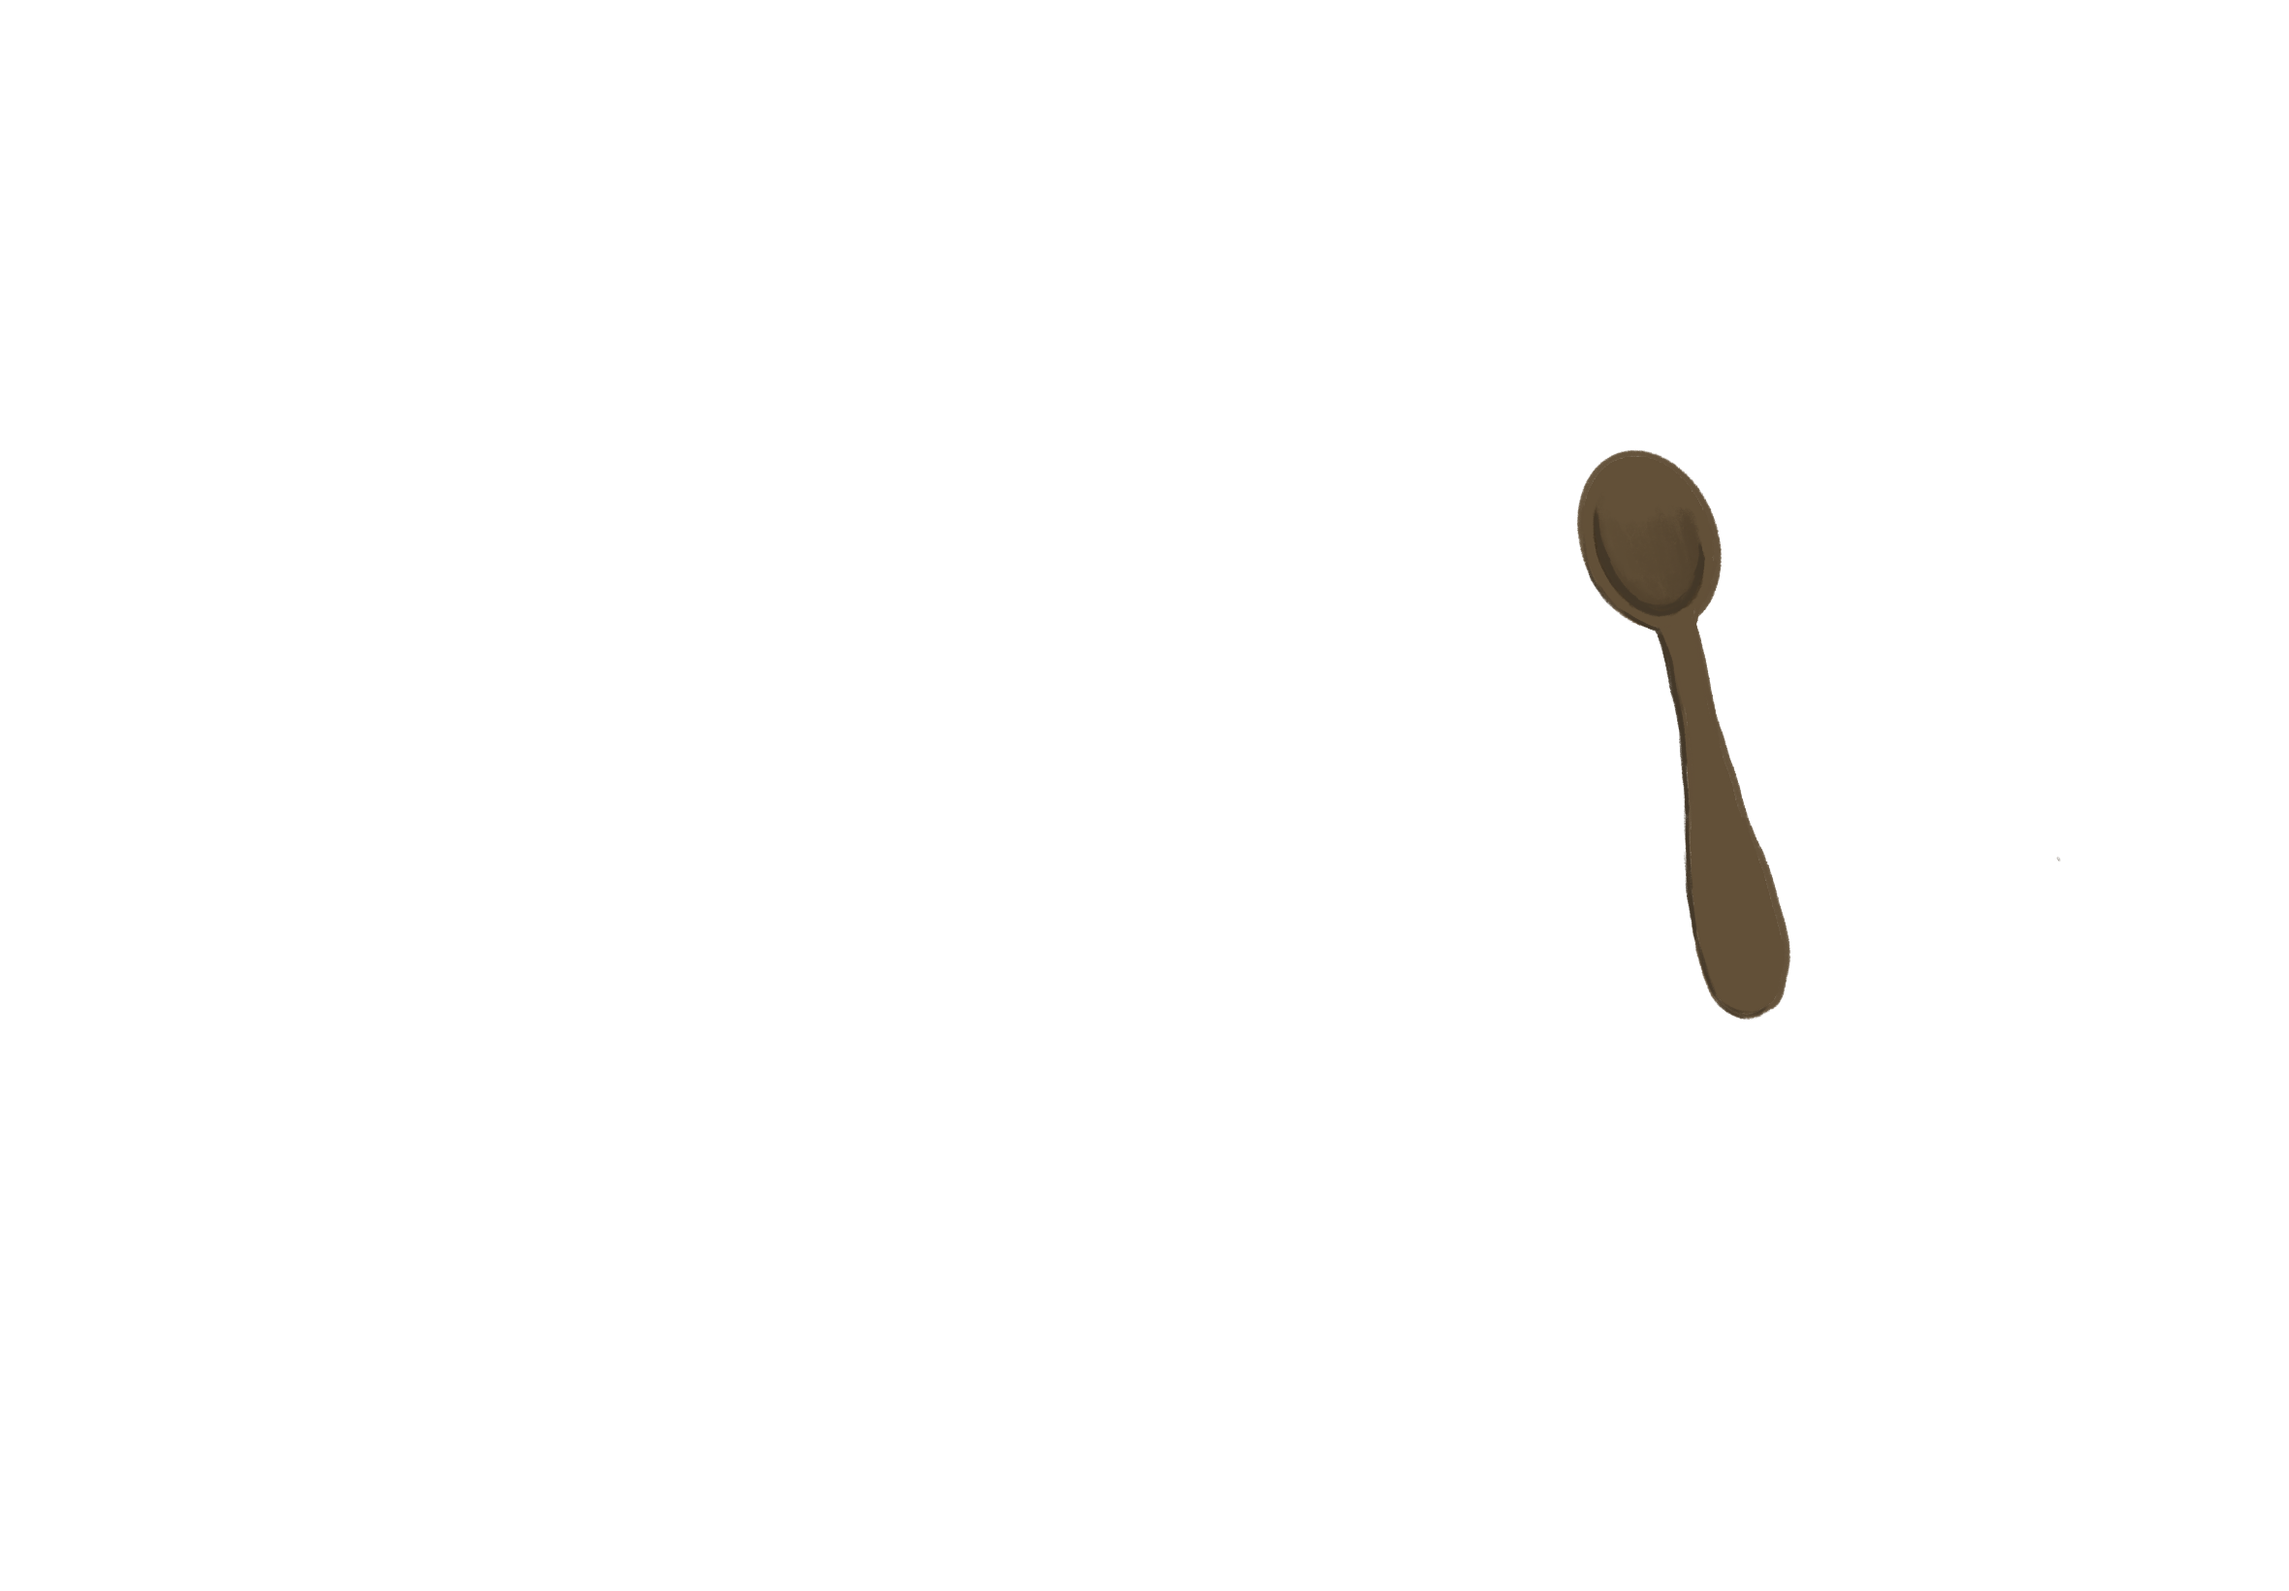
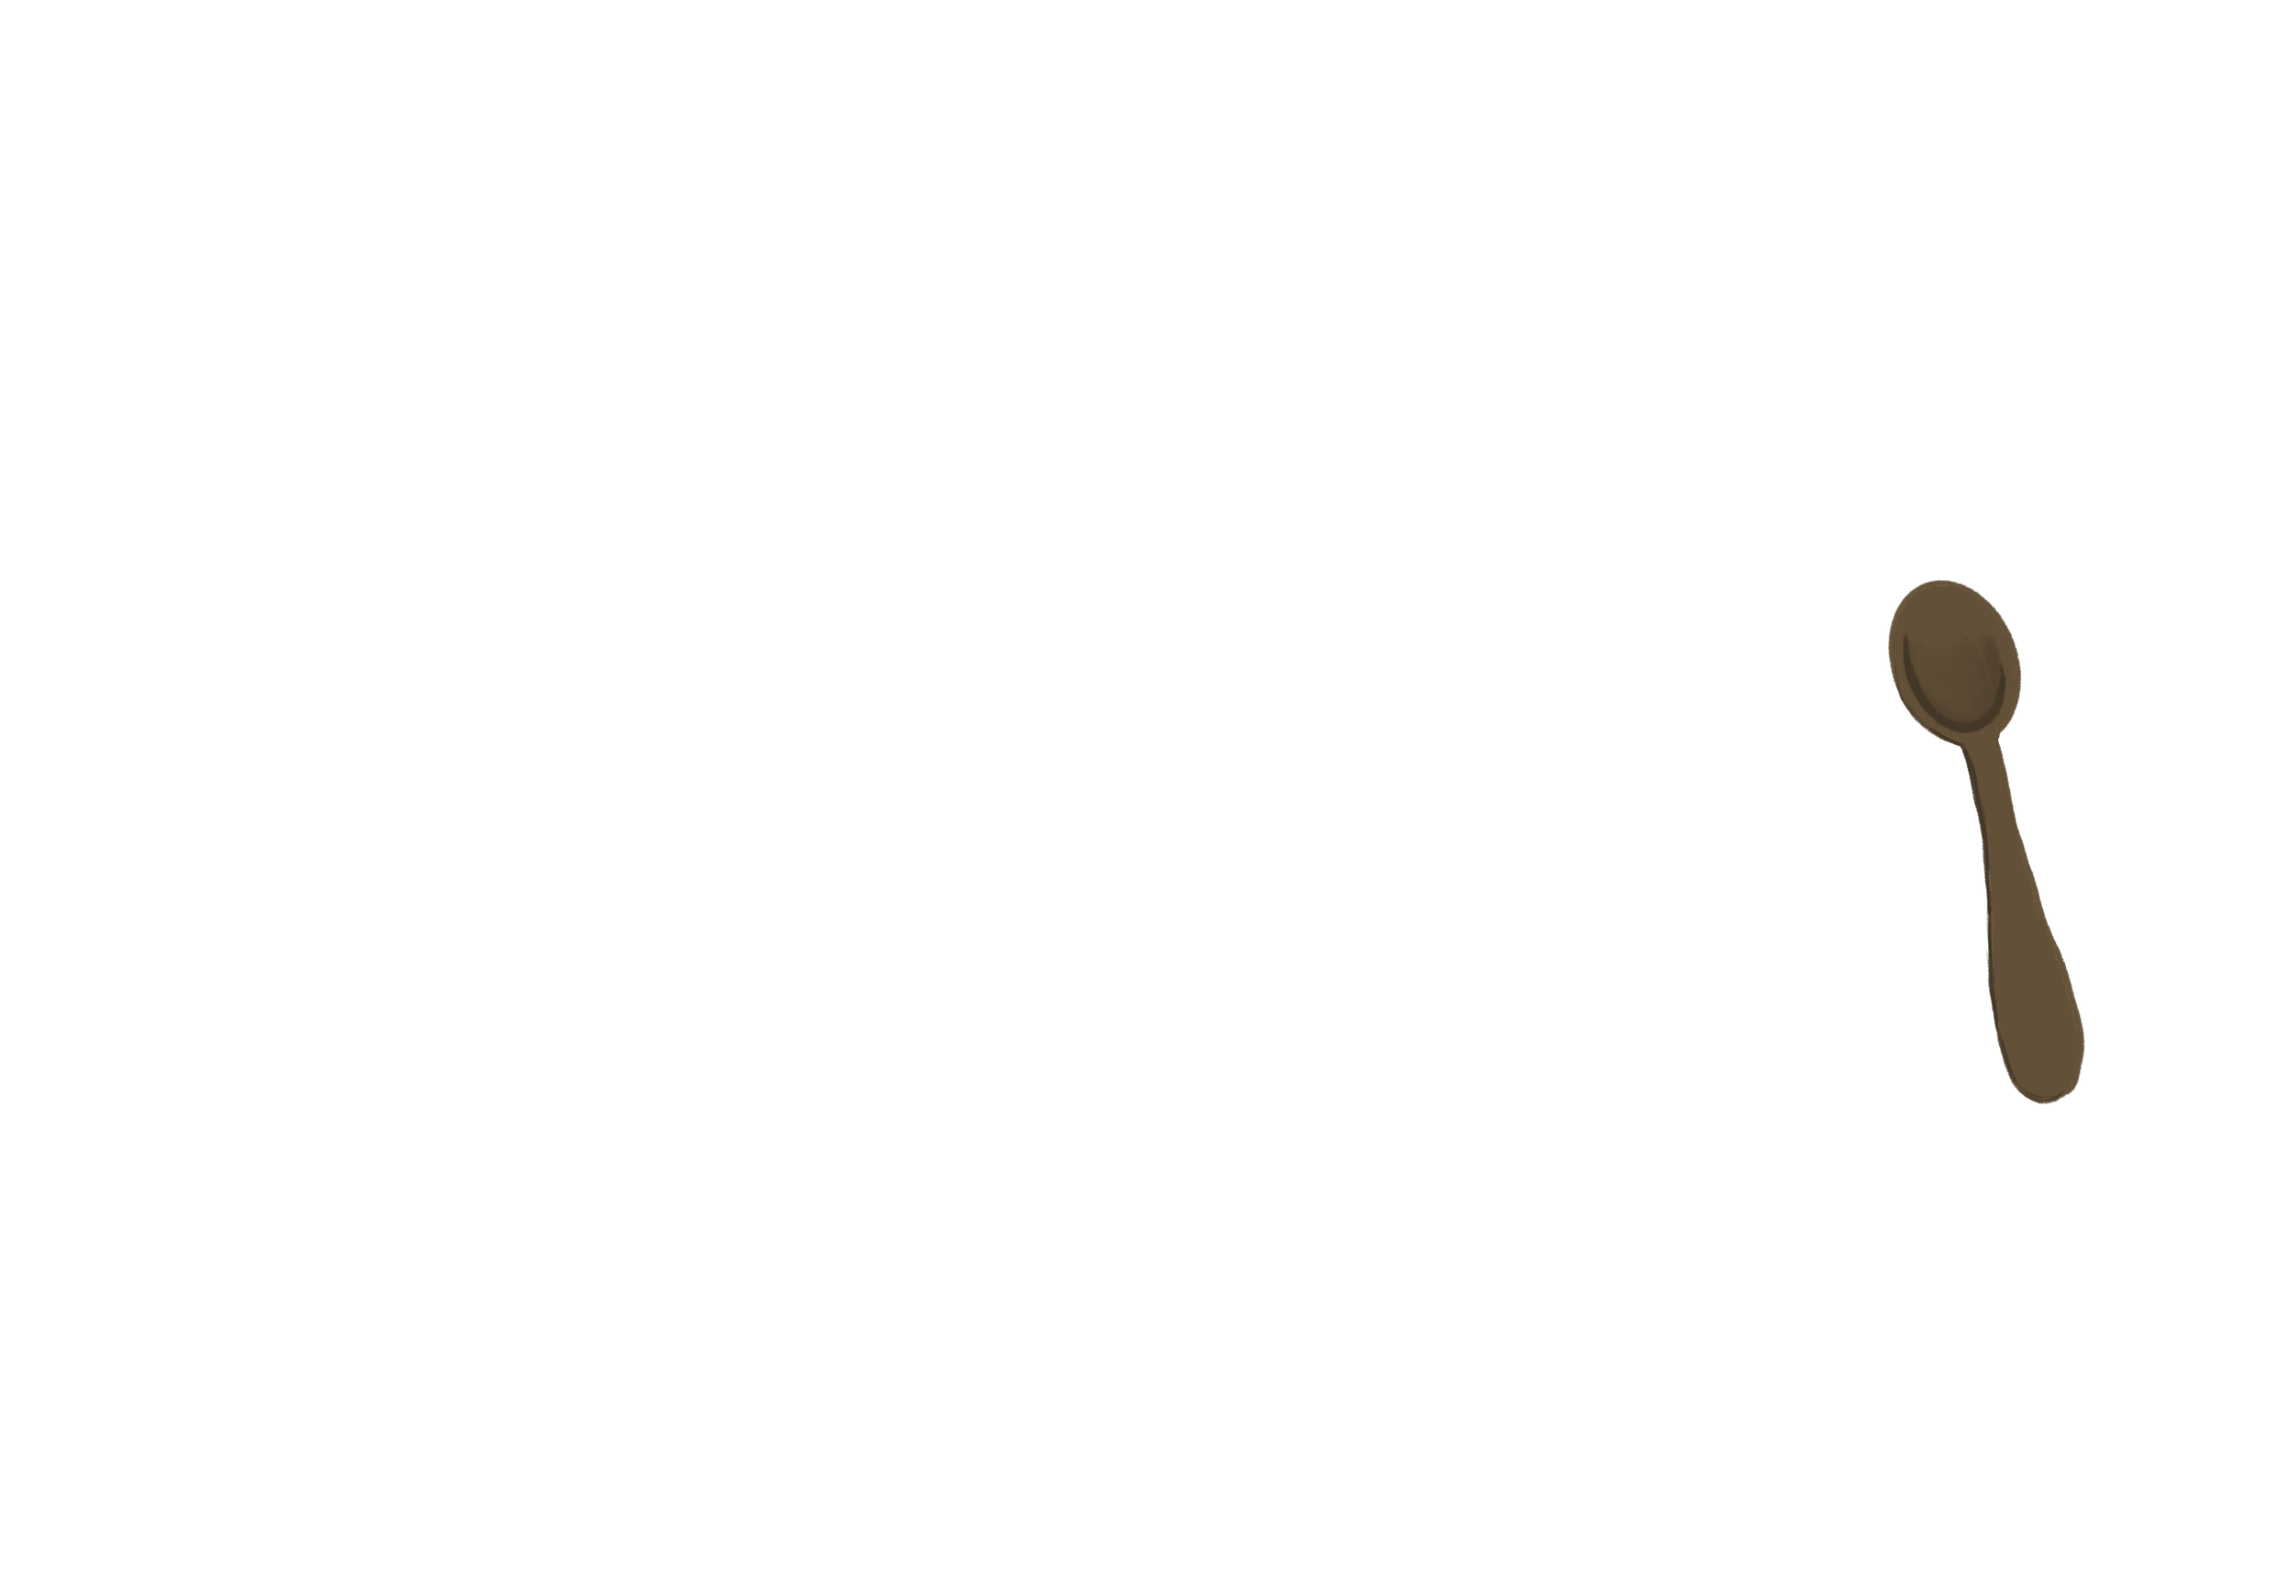
utensils location

Changed region(s): [[0.6805, 0.2799, 0.8042, 0.653], [0.8042, 0.3421, 0.928, 0.7152]]

diff --git a/index.html b/index.html
@@ -4,23 +4,119 @@
     <meta charset="UTF-8" />
     <meta name="viewport" content="width=device-width, initial-scale=1.0" />
     <title>Kitchen Symphony</title>
+
     <link rel="stylesheet" href="style.css" />
+    <script src="toneSetup.js" defer></script>
+    <script src="UIControls.js" defer></script>
+    <script src="main.js" defer></script>
   </head>
 
   <body>
     <h1>Kitchen Symphony</h1>
-    <div class="kitchen">
-      <img class="utensil pan" src="img/fryingPan.png" alt="fryingPan" />
-      <img class="utensil bowl" src="img/bowl.png" alt="bowl" />
-      <img class="utensil glass" src="img/glass.png" alt="glass" />
-      <img class="utensil glass" src="img/glass2.png" alt="glass2" />
-      <img class="utensil spoon" src="img/spoon.png" alt="spoon" />
-      <img
-        class="utensil chopsticks"
-        src="img/chopsticks.png"
-        alt="chopsticks"
-      />
-      <img class="utensil panLid" src="img/panLid.png" alt="panLid" />
-    </div>
+
+    <dialog id="introDialog">
+      <p>
+        Welcome to Kitchen Symphony! Please set your volume to a comfortable
+        level before playing
+      </p>
+      <button id="dialogCloseButton" autofocus>OK</button>
+    </dialog>
+
+    <p class="hint">
+      Click a utensil to start its loop (with random pitch). Click again to
+      stop.
+    </p>
+
+    <main class="kitchen-container">
+      <div class="kitchen">
+        <div class="utensils">
+          <img
+            data-id="pan"
+            class="utensil pan"
+            src="img/fryingPan.png"
+            alt="frying pan"
+          />
+          <img
+            data-id="panLid"
+            class="utensil panLid"
+            src="img/panLid.png"
+            alt="pan lid"
+          />
+          <img
+            data-id="bowl"
+            class="utensil bowl"
+            src="img/bowl.png"
+            alt="mixing bowl"
+          />
+          <img
+            data-id="glass"
+            class="utensil glass"
+            src="img/glass.png"
+            alt="glass"
+          />
+          <img
+            data-id="spoon"
+            class="utensil spoon"
+            src="img/spoon.png"
+            alt="spoon"
+          />
+          <img
+            data-id="chopsticks"
+            class="utensil chopsticks"
+            src="img/chopsticks.png"
+            alt="chopsticks"
+          />
+          <img
+            data-id="cuttingBoard"
+            class="utensil cuttingBoard"
+            src="img/cuttingBoard.png"
+            alt="cuttingBoard"
+          />
+          <img
+            data-id="knife"
+            class="utensil knife"
+            src="img/knife.png"
+            alt="knife"
+          />
+          <img
+            data-id="teapot"
+            class="utensil teapot"
+            src="img/teapot.png"
+            alt="teapot"
+          />
+          <img
+            data-id="teaCup"
+            class="utensil teaCup"
+            src="img/teaCup.png"
+            alt="teaCup"
+          />
+          <img
+            data-id="salt"
+            class="utensil salt"
+            src="img/salt.png"
+            alt="salt"
+          />
+          <img
+            data-id="pepper"
+            class="utensil pepper"
+            src="img/pepper.png"
+            alt="pepper"
+          />
+          <img
+            data-id="vinegar"
+            class="utensil vinegar"
+            src="img/vinegar.png"
+            alt="vinegar"
+          />
+        </div>
+      </div>
+    </main>
+
+    <footer class="controls">
+      <small>
+        Prototype: click instruments to toggle looping. Each time you restart,
+        it gets a new pitch.
+      </small>
+    </footer>
   </body>
 </html>

diff --git a/main.js b/main.js
@@ -1,0 +1,47 @@
+const utensils = document.querySelectorAll(".utensil");
+const composition = document.getElementById("composition");
+
+const loops = {}; // store Tone.Players per utensil
+
+// helper to get random pitch factor
+function getRandomPitch() {
+  const pitches = [0.75, 1, 1.25, 1.5]; // low, medium, high, extra-high
+  return pitches[Math.floor(Math.random() * pitches.length)];
+}
+
+utensils.forEach((utensil) => {
+  utensil.addEventListener("click", () => {
+    const id = utensil.dataset.id;
+
+    if (loops[id]?.state === "started") {
+      // stop current loop
+      loops[id].stop();
+      loops[id].state = "stopped";
+    } else {
+      // create new loop with random pitch
+      const player = new Tone.Player(`sounds/${id}.mp3`).toDestination();
+      player.playbackRate = getRandomPitch();
+      player.loop = true;
+      player.start();
+      player.state = "started";
+      loops[id] = player;
+    }
+  });
+
+  // Make utensils draggable
+  utensil.setAttribute("draggable", true);
+  utensil.addEventListener("dragstart", (e) => {
+    e.dataTransfer.setData("text/plain", utensil.dataset.id);
+  });
+});
+
+// Allow dragging into composition
+composition.addEventListener("dragover", (e) => e.preventDefault());
+composition.addEventListener("drop", (e) => {
+  e.preventDefault();
+  const id = e.dataTransfer.getData("text/plain");
+  const clone = document
+    .querySelector(`.utensil[data-id="${id}"]`)
+    .cloneNode(true);
+  composition.appendChild(clone);
+});

diff --git a/style.css b/style.css
@@ -32,43 +32,60 @@ h1 {
 }
 
 .pan {
-  top: 10%;
-  left: 5%;
-  width: 70%;
-}
-
-.bowl {
-  top: 9%;
-  left: 3%;
+  top: 12%;
+  left: o.5%;
   width: 75%;
 }
 
-.glass {
-  top: 9%;
-  left: 3%;
-  width: 75%;
-}
-
-.spoon {
-  top: 9%;
-  left: 3%;
-  width: 75%;
-}
-
+.panLid,
+.bowl,
+.glass,
+.spoon,
 .chopsticks {
-  top: 9%;
-  left: 3%;
+  top: 7%;
+  left: 8%;
+  width: 80%;
+}
+
+.knife,
+.cuttingBoard {
+  top: 12%;
+  left: 10%;
   width: 75%;
 }
 
-.glass {
-  top: 9%;
-  left: 3%;
+.teapot,
+.teaCup {
+  top: 4.3%;
+  left: 7%;
   width: 75%;
 }
 
-.panLid {
-  top: 9%;
-  left: 3%;
+.salt,
+.pepper,
+.vinegar {
+  top: 5.5%;
+  left: 18%;
   width: 75%;
+}
+
+dialog[open] {
+  margin: auto;
+  padding: 1rem;
+  background-color: beige;
+  color: rgb(72, 45, 8);
+  border: rgb(72, 45, 8);
+  border-radius: 12px;
+  display: flex;
+  flex-direction: column;
+  align-items: center;
+  gap: 1rem;
+}
+dialog::backdrop {
+  background-color: rgba(65, 45, 17, 0.5);
+}
+#dialogCloseButton {
+  background-color: rgb(230, 217, 198);
+  color: rgb(65, 45, 17);
+  padding: 0 1rem;
 }

diff --git a/UIControls.js b/UIControls.js
@@ -1,0 +1,12 @@
+/* find modal */
+let introModal = document.getElementById("introDialog");
+/* to get the backdrop working we need to open the modal with js */
+document.getElementById("introDialog").showModal();
+/* find modal close button and add an eventlistener */
+document.getElementById("dialogCloseButton").addEventListener("click", () => {
+  introModal.close();
+});
+/* finally we want to initialize the synthesizer when the modal is closed */
+/* because this can be through the above button, or by pressing esc, we tie it to the actual close event */
+/* the referenced toneInit function is defined in toneSetup.js */
+introModal.addEventListener("close", toneInit);

diff --git a/tone.js b/tone.js
@@ -1,0 +1,4 @@
+function toneInit() {
+  Tone.start(); // initialize audio context
+  console.log("Tone.js ready!");
+}
